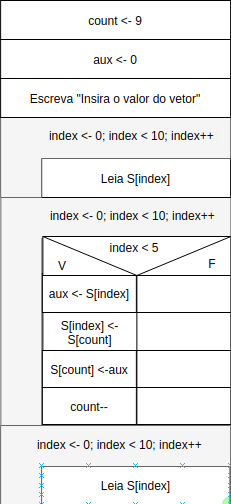
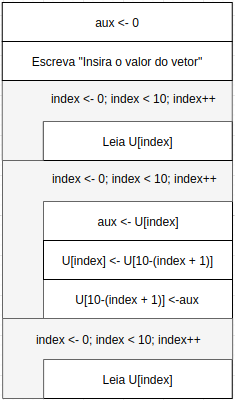
Remove unnecessary variable

Changed region(s): [[0.0, 0.0, 1.0, 1.0]]

diff --git a/exercicios-vetor/15/15.c b/exercicios-vetor/15/15.c
@@ -2,19 +2,15 @@
 
 int main(int argc, char const *argv[])
 {
-	int U[10], aux=0, count=9;
-
+	int S[10], aux=0;
 	printf("Insira o valor do vetor: \n");
 	for (int index = 0; index < 10; ++index){
 		scanf("%d", &S[index]);
 	}
-	for (int index = 0; index < 10; ++index){
-		if (index < 5) {
+	for (int index = 0; index < 5; ++index){
 			aux = S[index];
-			S[index] = S[count];
-			S[count] = aux;
-			count--;
-		}
+			S[index] = S[10 -(index+1)];
+			S[10 -(index+1)] = aux;
 	}
 
 	for (int index = 0; index < 10; ++index){
